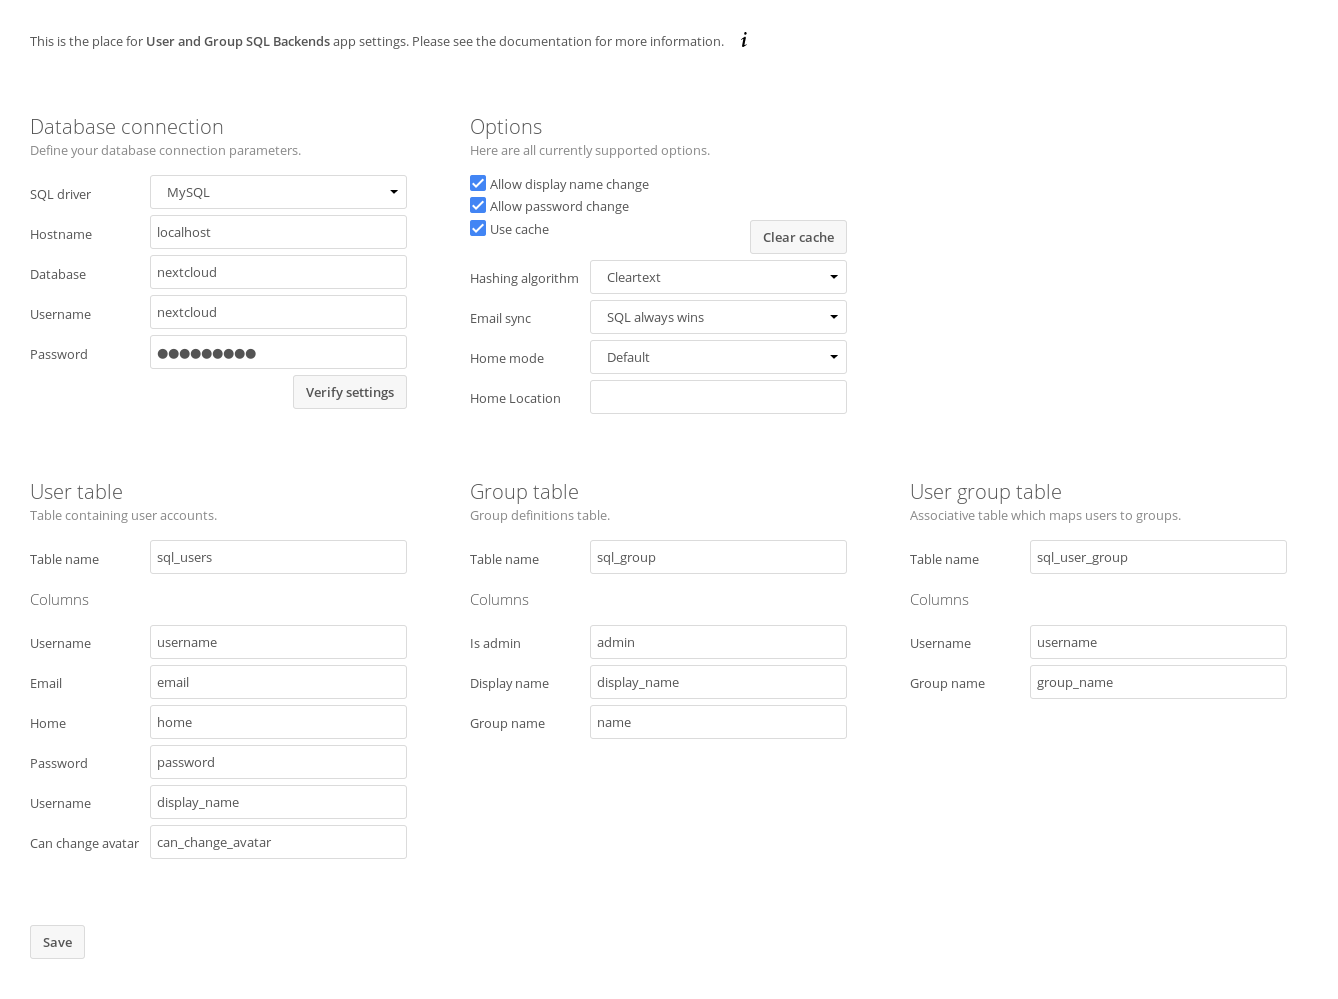
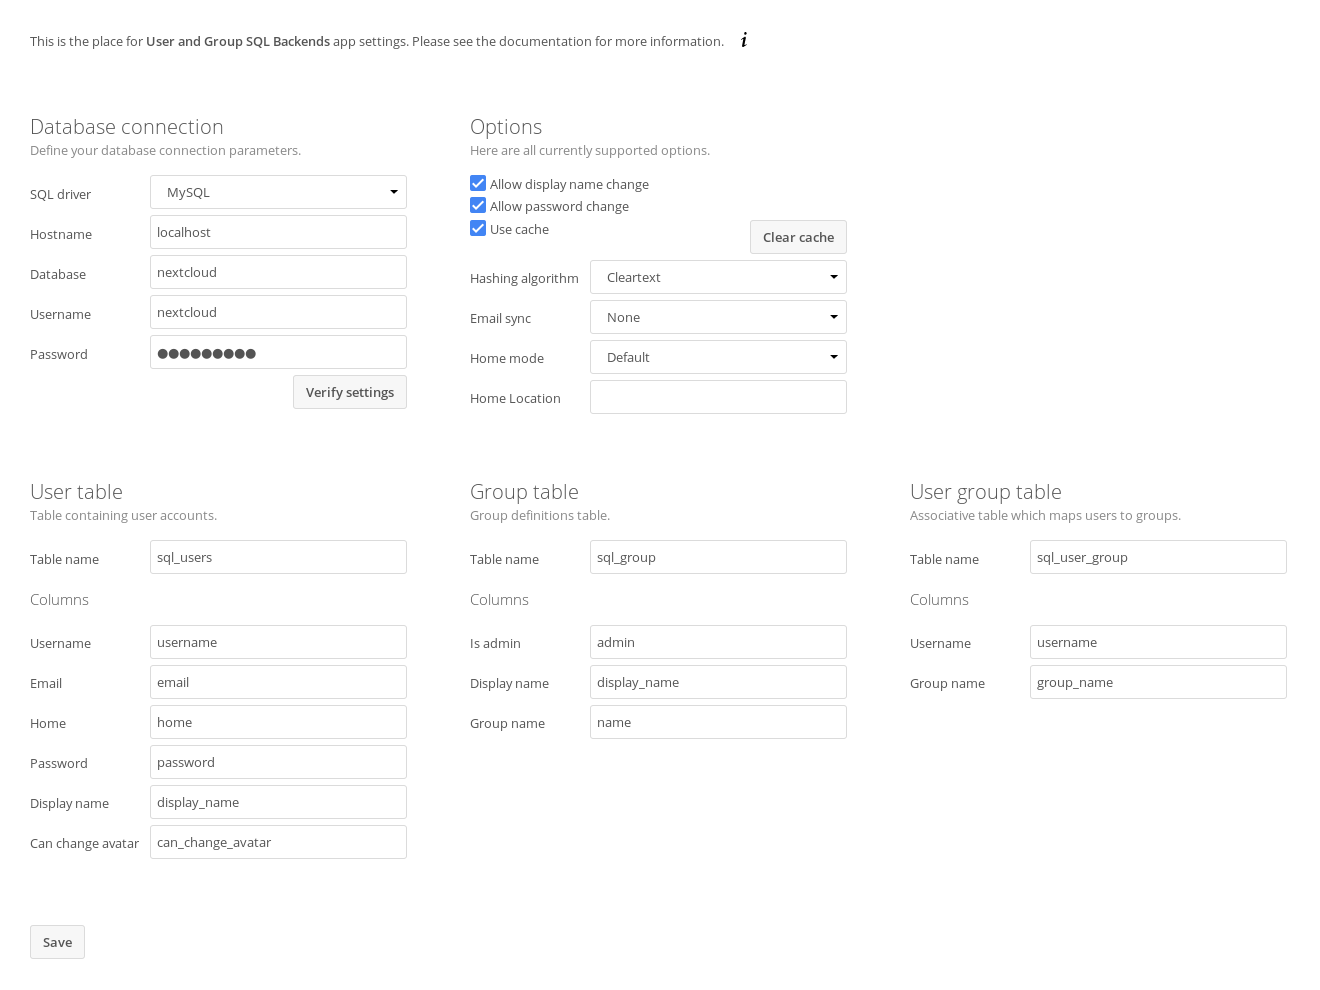
Fixes

diff --git a/templates/admin.php b/templates/admin.php
@@ -146,7 +146,7 @@ function print_select_options(
                 print_text_input($l, "db-table-user-column-email", "Email", $_['db.table.user.column.email']);
                 print_text_input($l, "db-table-user-column-home", "Home", $_['db.table.user.column.home']);
                 print_text_input($l, "db-table-user-column-password", "Password", $_['db.table.user.column.password']);
-                print_text_input($l, "db-table-user-column-name", "Username", $_['db.table.user.column.name']);
+                print_text_input($l, "db-table-user-column-name", "Display name", $_['db.table.user.column.name']);
                 print_text_input($l, "db-table-user-column-avatar", "Can change avatar", $_['db.table.user.column.avatar']); ?>
             </fieldset>
         </div>

diff --git a/lib/AppInfo/Application.php b/lib/AppInfo/Application.php
@@ -39,7 +39,7 @@ class Application extends App
      */
     public function __construct(array $urlParams = array())
     {
-        parent::__construct('user_sql', $urlParams);
+        parent::__construct("user_sql", $urlParams);
     }
 
     /**

diff --git a/lib/Action/EmailSync.php b/lib/Action/EmailSync.php
@@ -79,6 +79,7 @@ class EmailSync implements IUserAction
 
     /**
      * @inheritdoc
+     * @throws \OCP\PreConditionNotMetException
      */
     public function doAction(User $user)
     {
